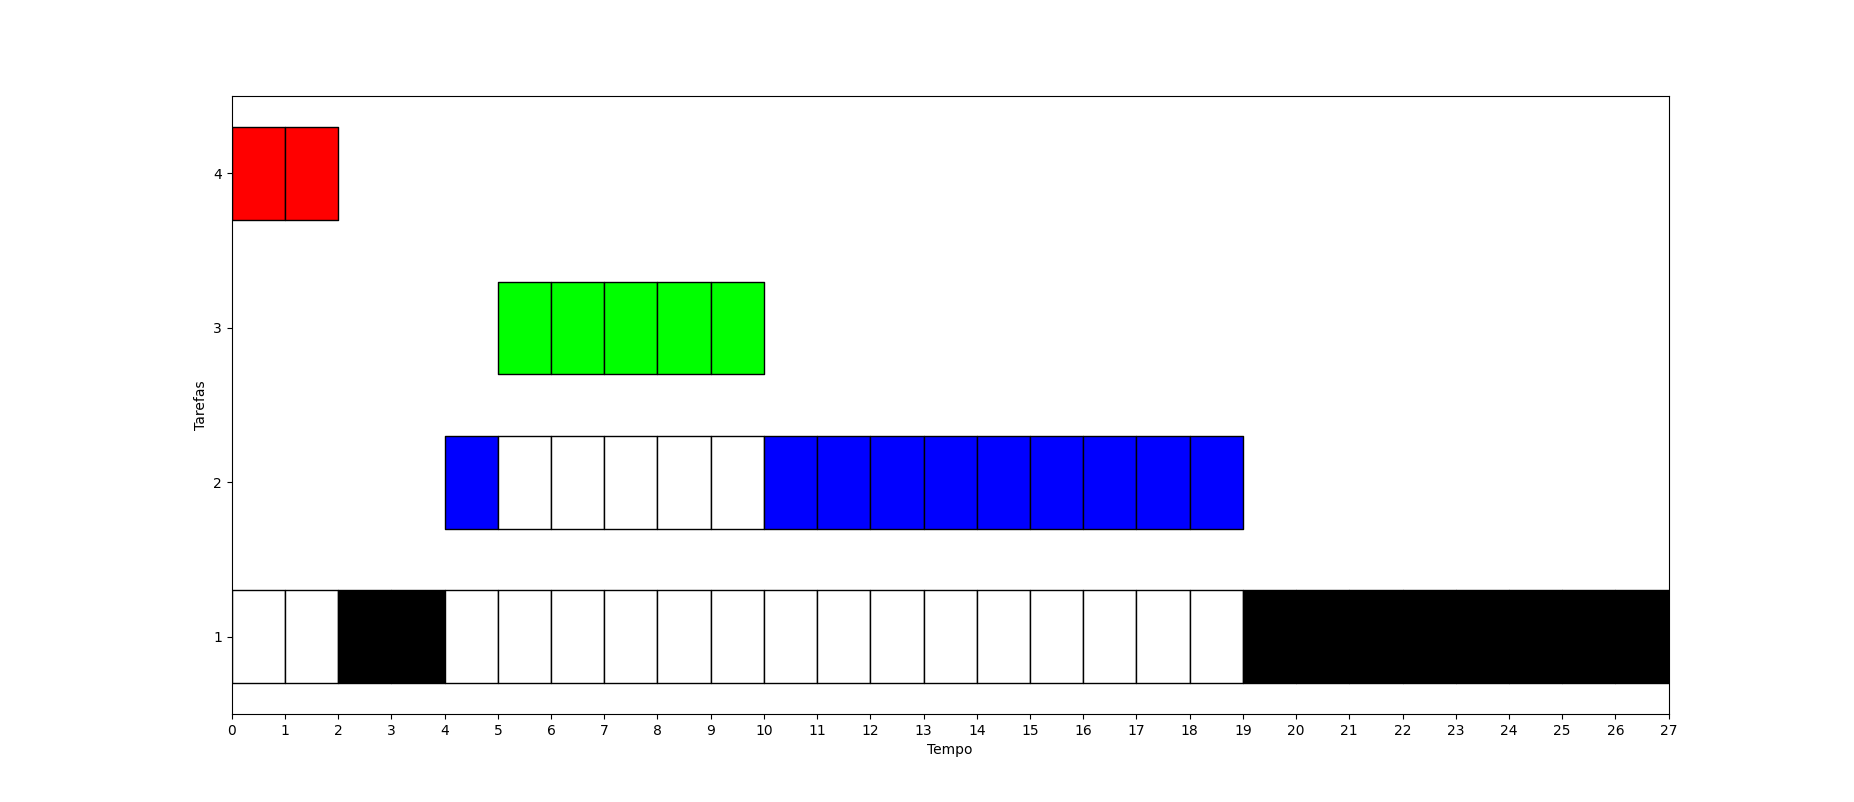
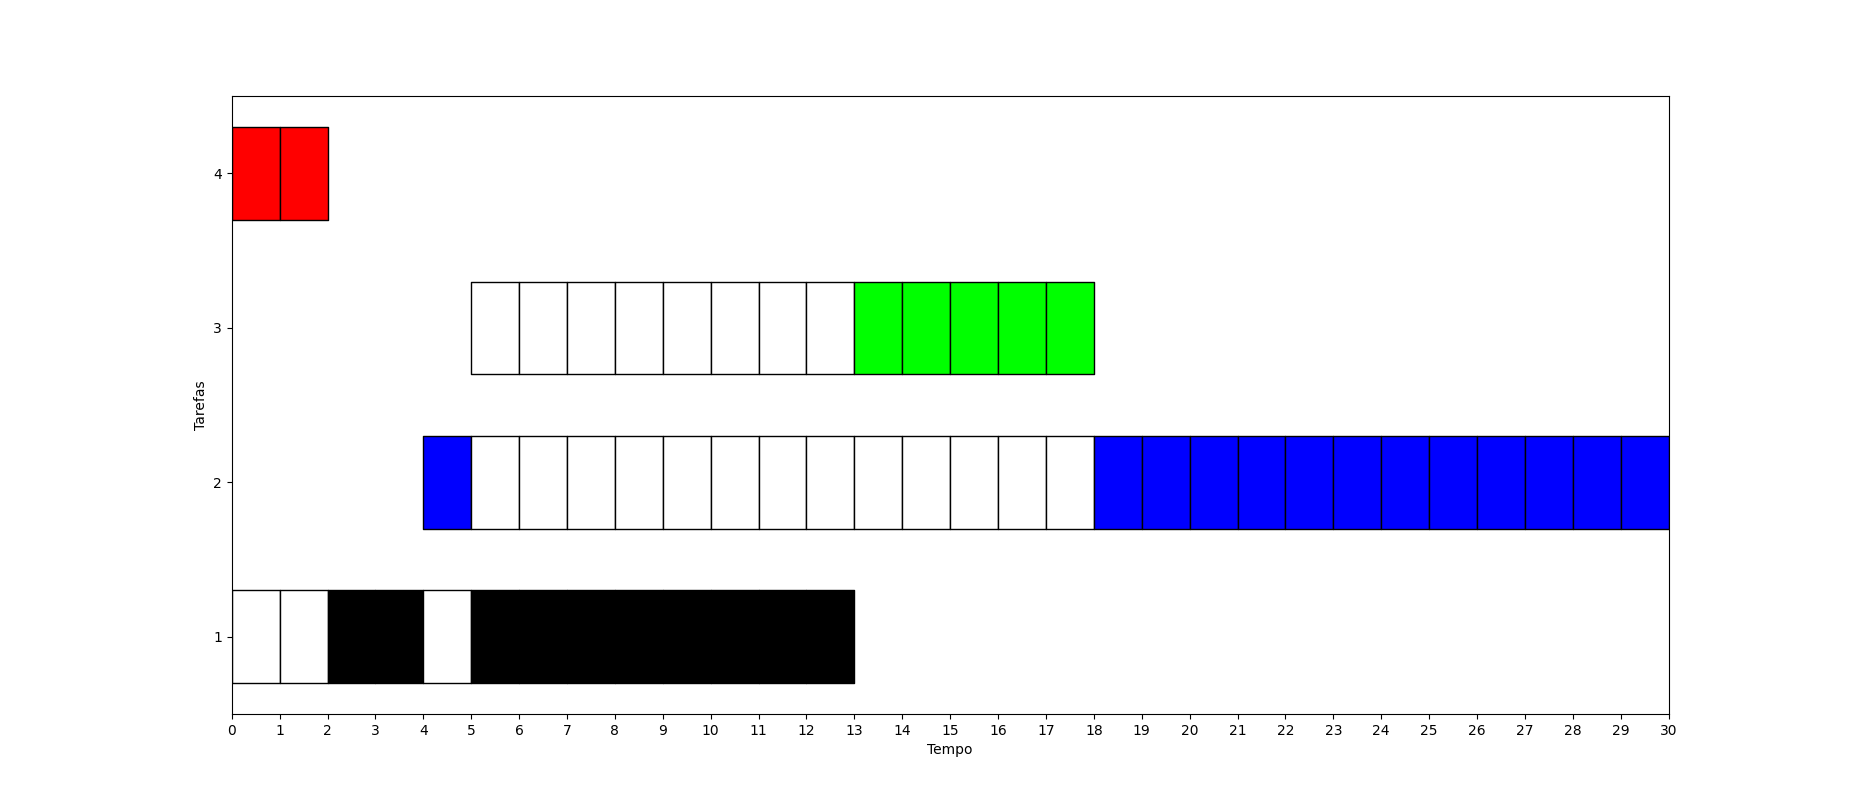
Separar mutex e herança prioridade s e arrumar bugs

diff --git a/Tarefa.py b/Tarefa.py
@@ -33,9 +33,11 @@ class Tarefa:
                 ev.setDuracaoIO(evento[-2:])
                 self.lista_eventos_IO.append(ev)
 
+    # Operação de Lock do Mutex, retorna None se funcionou, e o mutex se ele bloqueou
     def lock(self, evento, lista_mutex):
         mutex = None
         id_mutex = evento.id_mutex
+        success = True
         for mu in lista_mutex:
             if id_mutex == mu.id:
                 mutex = mu
@@ -49,17 +51,50 @@ class Tarefa:
             mutex.tarefa = self
         else:
             if (mutex.tarefa != self):
-                if (mutex.tarefa.prioridade_dinamica < self.prioridade_dinamica):       # Herança de Prioridades
-                    temp = mutex.tarefa.prioridade_dinamica
-                    mutex.tarefa.prioridade_dinamica = self.prioridade_dinamica
-                    self.prioridade_dinamica = temp
-                    self.herancaPrioridade = True
-                    mutex.tarefa.herancaPrioridade = True
+                success = False
             
-        if self.herancaPrioridade:
-            return mutex.tarefa
+        if success:
+            return None
         else:
-            return self
+            return mutex
+
+
+    def tratar_heranca_prioridade(self, mutex):
+        temp = mutex.tarefa.prioridade_dinamica
+        mutex.tarefa.prioridade_dinamica = self.prioridade_dinamica
+        self.prioridade_dinamica = temp
+        self.herancaPrioridade = True
+        mutex.tarefa.herancaPrioridade = True
+        return mutex.tarefa
+
+
+    # def lock(self, evento, lista_mutex):
+    #     mutex = None
+    #     id_mutex = evento.id_mutex
+    #     for mu in lista_mutex:
+    #         if id_mutex == mu.id:
+    #             mutex = mu
+
+    #     if (not mutex):                                                             # Cria um novo mutex caso não exista
+    #         mutex = Mutex(id_mutex)
+    #         lista_mutex.append(mutex)
+    
+    #     if (not mutex.isLocked):
+    #         mutex.isLocked = True
+    #         mutex.tarefa = self
+    #     else:
+    #         if (mutex.tarefa != self):
+    #             if (mutex.tarefa.prioridade_dinamica < self.prioridade_dinamica):       # Herança de Prioridades
+    #                 temp = mutex.tarefa.prioridade_dinamica
+    #                 mutex.tarefa.prioridade_dinamica = self.prioridade_dinamica
+    #                 self.prioridade_dinamica = temp
+    #                 self.herancaPrioridade = True
+    #                 mutex.tarefa.herancaPrioridade = True
+            
+    #     if self.herancaPrioridade:
+    #         return mutex.tarefa
+    #     else:
+    #         return self
     
     def unlock(self, mutex):
         mutex.tarefa = None
@@ -68,10 +103,9 @@ class Tarefa:
     # Verifica se tem algum mutex para tratar, retorna true se tarefa conseguiu processar no mutex ou se não houver mutex, false se foi bloqueada
     def verificar_mutex(self, tempo_atual, lista_mutex):
         for evento in self.lista_eventos_mutex:
-            print(f"Id: {self.id}, Inicio: {evento.inicio}, TAtual: {tempo_atual}, Duração: {evento.duracao}")
-            if evento.inicio < tempo_atual:
+            if evento.inicio <= self.tempo_decorrido:
                 return self.lock(evento, lista_mutex)
-        return self
+        return None
     
     def decrementar_duracao_evento_mutex(self, tempo_atual, lista_mutex):
         for evento in self.lista_eventos_mutex:
@@ -91,7 +125,6 @@ class Tarefa:
     # Verifica e trata eventos IO
     def verificar_IO(self):
         for evento in self.lista_eventos_IO:
-            print(f"Inicio: {evento.inicio}, tempo: {self.tempo_decorrido}")
             if evento.inicio <= self.tempo_decorrido:
                 evento.duracao -= 1
                 if evento.duracao <= 0:

diff --git a/Escalonador.py b/Escalonador.py
@@ -136,8 +136,10 @@ class Escalonador:
             self.prox_preempcao = False
         tarefaIO = self.verificar_IO_tarefas()
         self.tempo += 1
+        self.quantum -= 1
         if (tarefaIO):
             self.prox_preempcao = True
+            self.resetar_quantum()
             return tarefaIO
 
         if (self.processador):
@@ -151,12 +153,15 @@ class Escalonador:
 
         # Caso há preempção
         if (self.preempcao):
+            self.resetar_quantum()
             self.processador = self.tarefas_prontas[0]
             for tarefa in self.tarefas_prontas:                 # Verifica qual tarefa tem maior prioridade na lista de prontas
                 if (tarefa.prioridade_dinamica > self.processador.prioridade_dinamica):
                     self.processador = tarefa
 
-        self.processador = self.processador.verificar_mutex(self.tempo, self.lista_mutex)       # Função retorna a tarefa que deve ser processada, trata herança de prioridades
+        mutex = self.processador.verificar_mutex(self.tempo, self.lista_mutex)
+        if mutex:
+            self.processador = self.processador.tratar_heranca_prioridade(mutex)
 
         self.processador.decrementar_duracao_evento_mutex(self.tempo, self.lista_mutex)
         self.processador.decrementar_duracao()
@@ -170,8 +175,10 @@ class Escalonador:
             self.preempcao = True
         tarefaIO = self.verificar_IO_tarefas()
         self.tempo += 1
+        self.quantum -= 1
         if tarefaIO:
             self.prox_preempcao = True
+            self.resetar_quantum()
             return tarefaIO
 
         if self.quantum_restante <= 0:
@@ -188,6 +195,7 @@ class Escalonador:
 
         # Caso há preempção
         if (self.preempcao):
+            self.resetar_quantum()
             self.quantum_restante = self.quantum
             temp = self.tarefas_prontas[0]
             for tarefa in self.tarefas_prontas:                 # Verifica qual tarefa tem maior prioridade na lista de prontas
